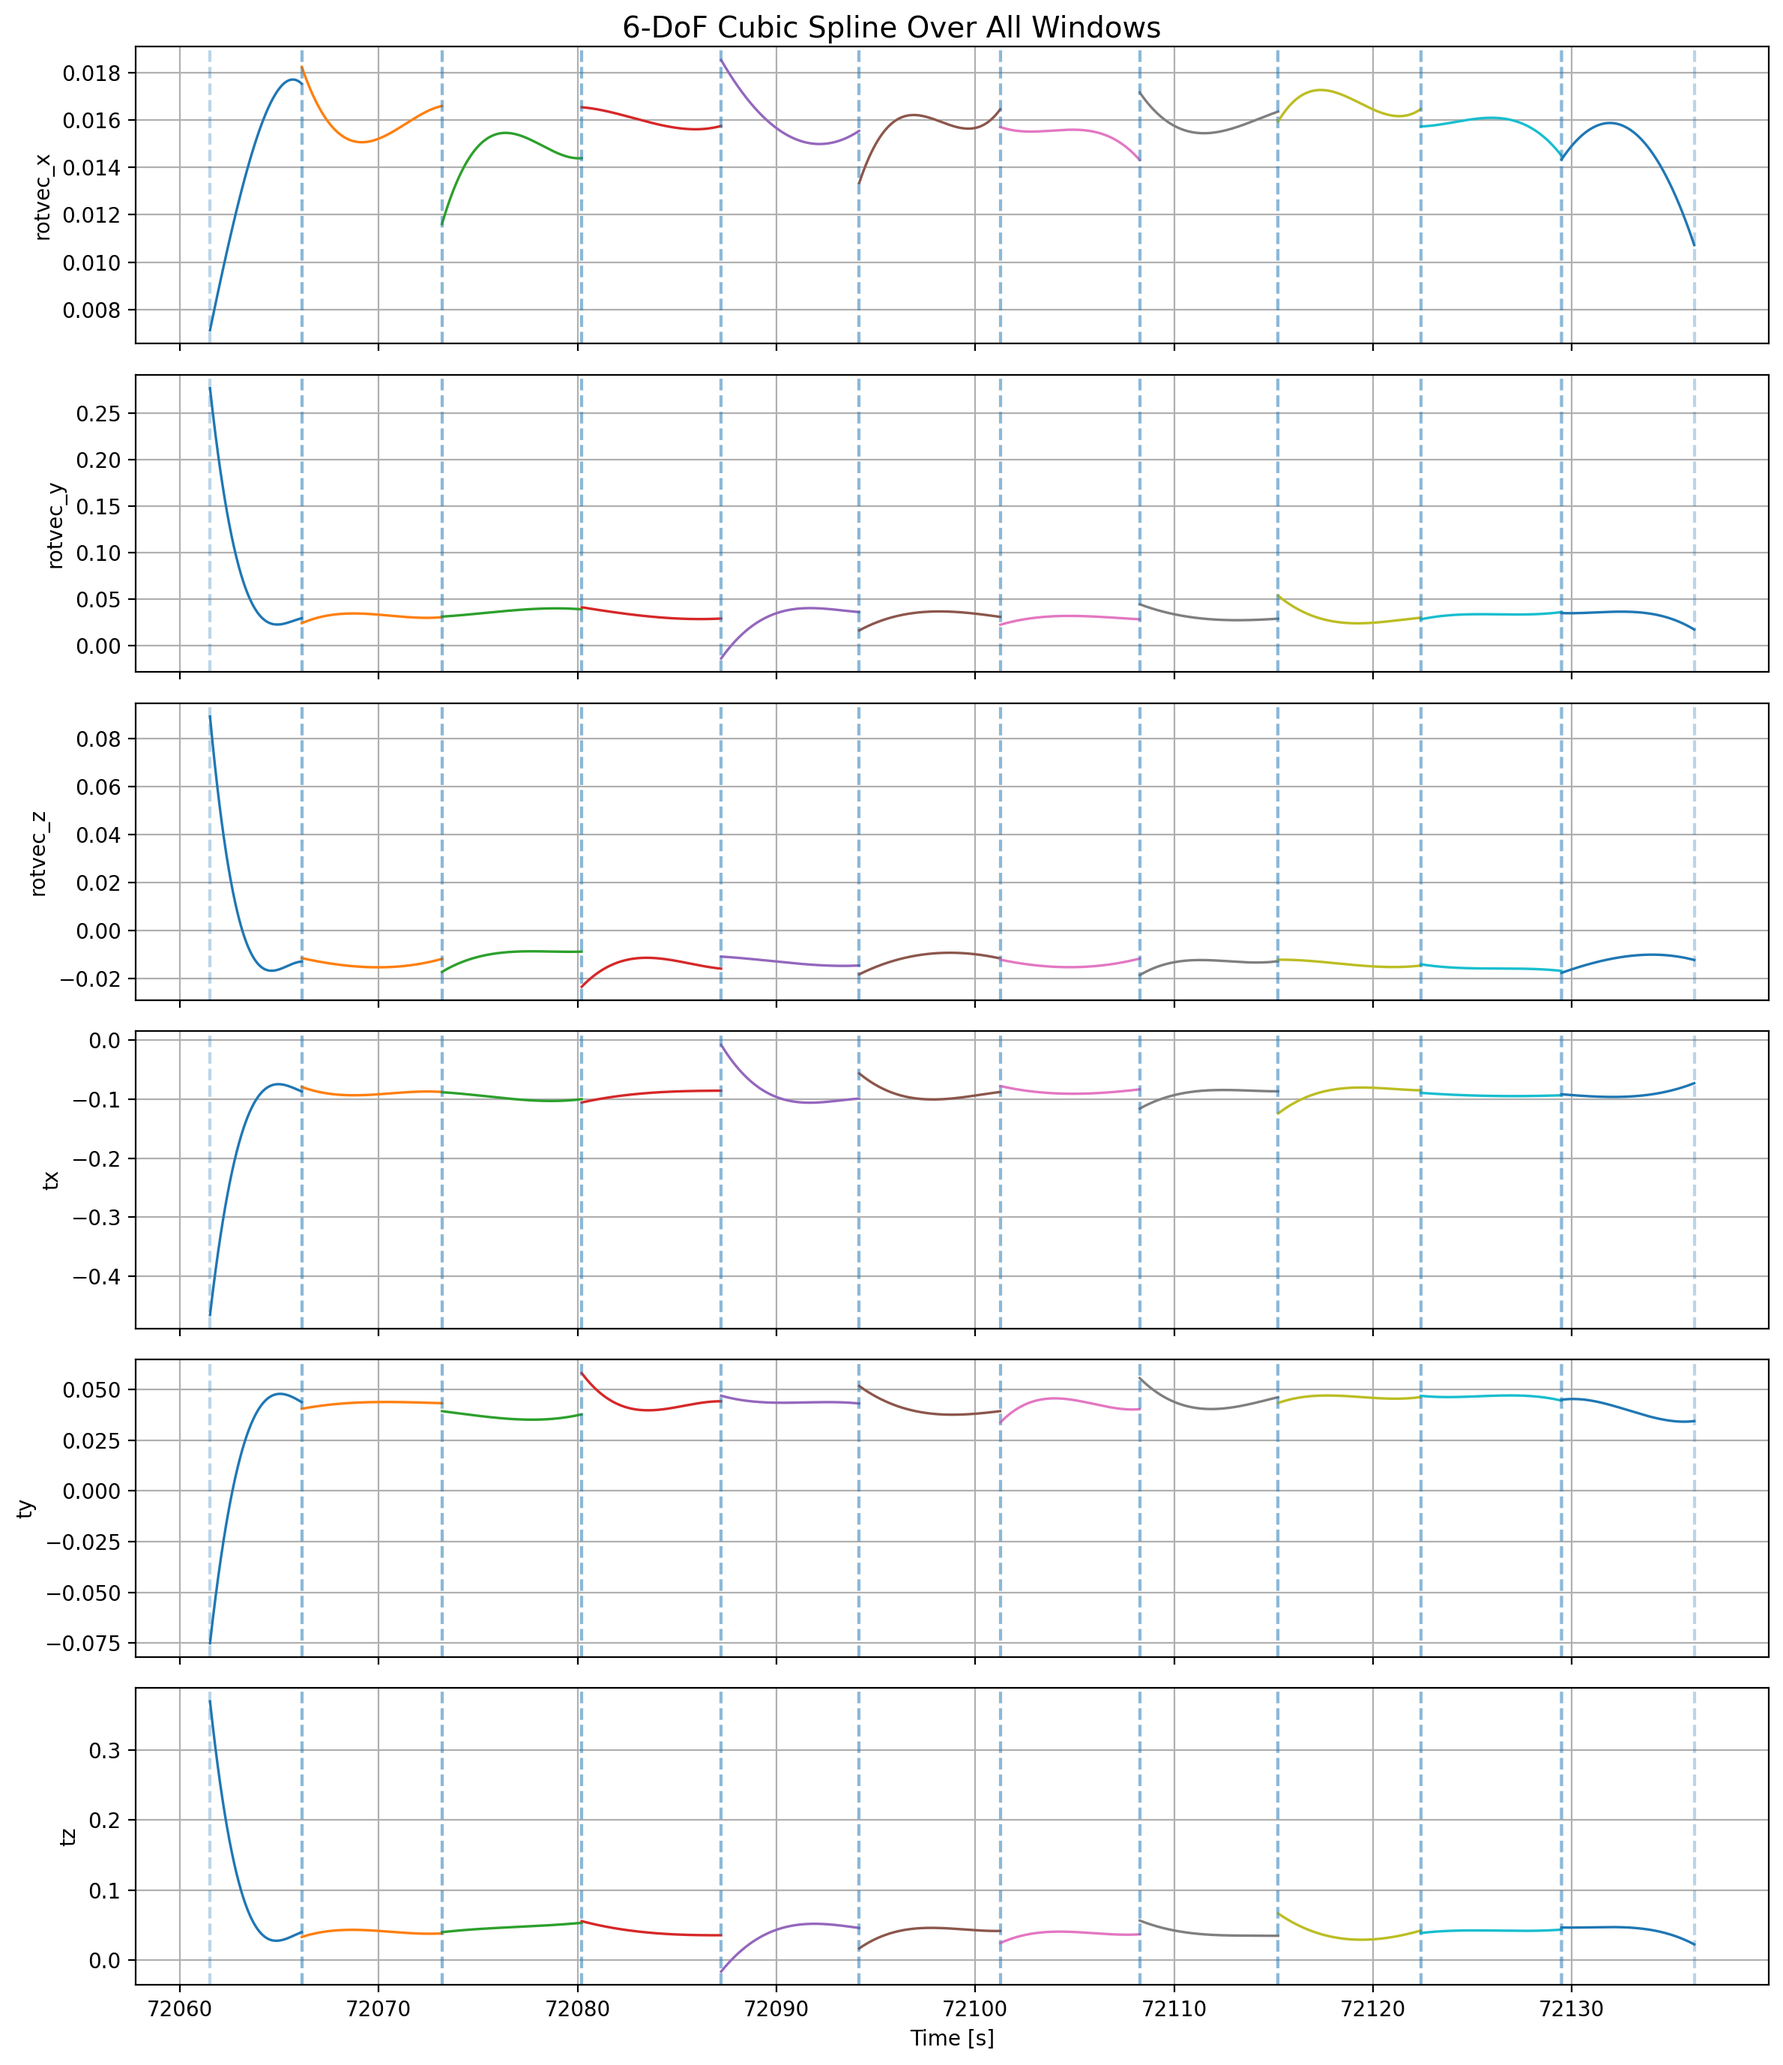
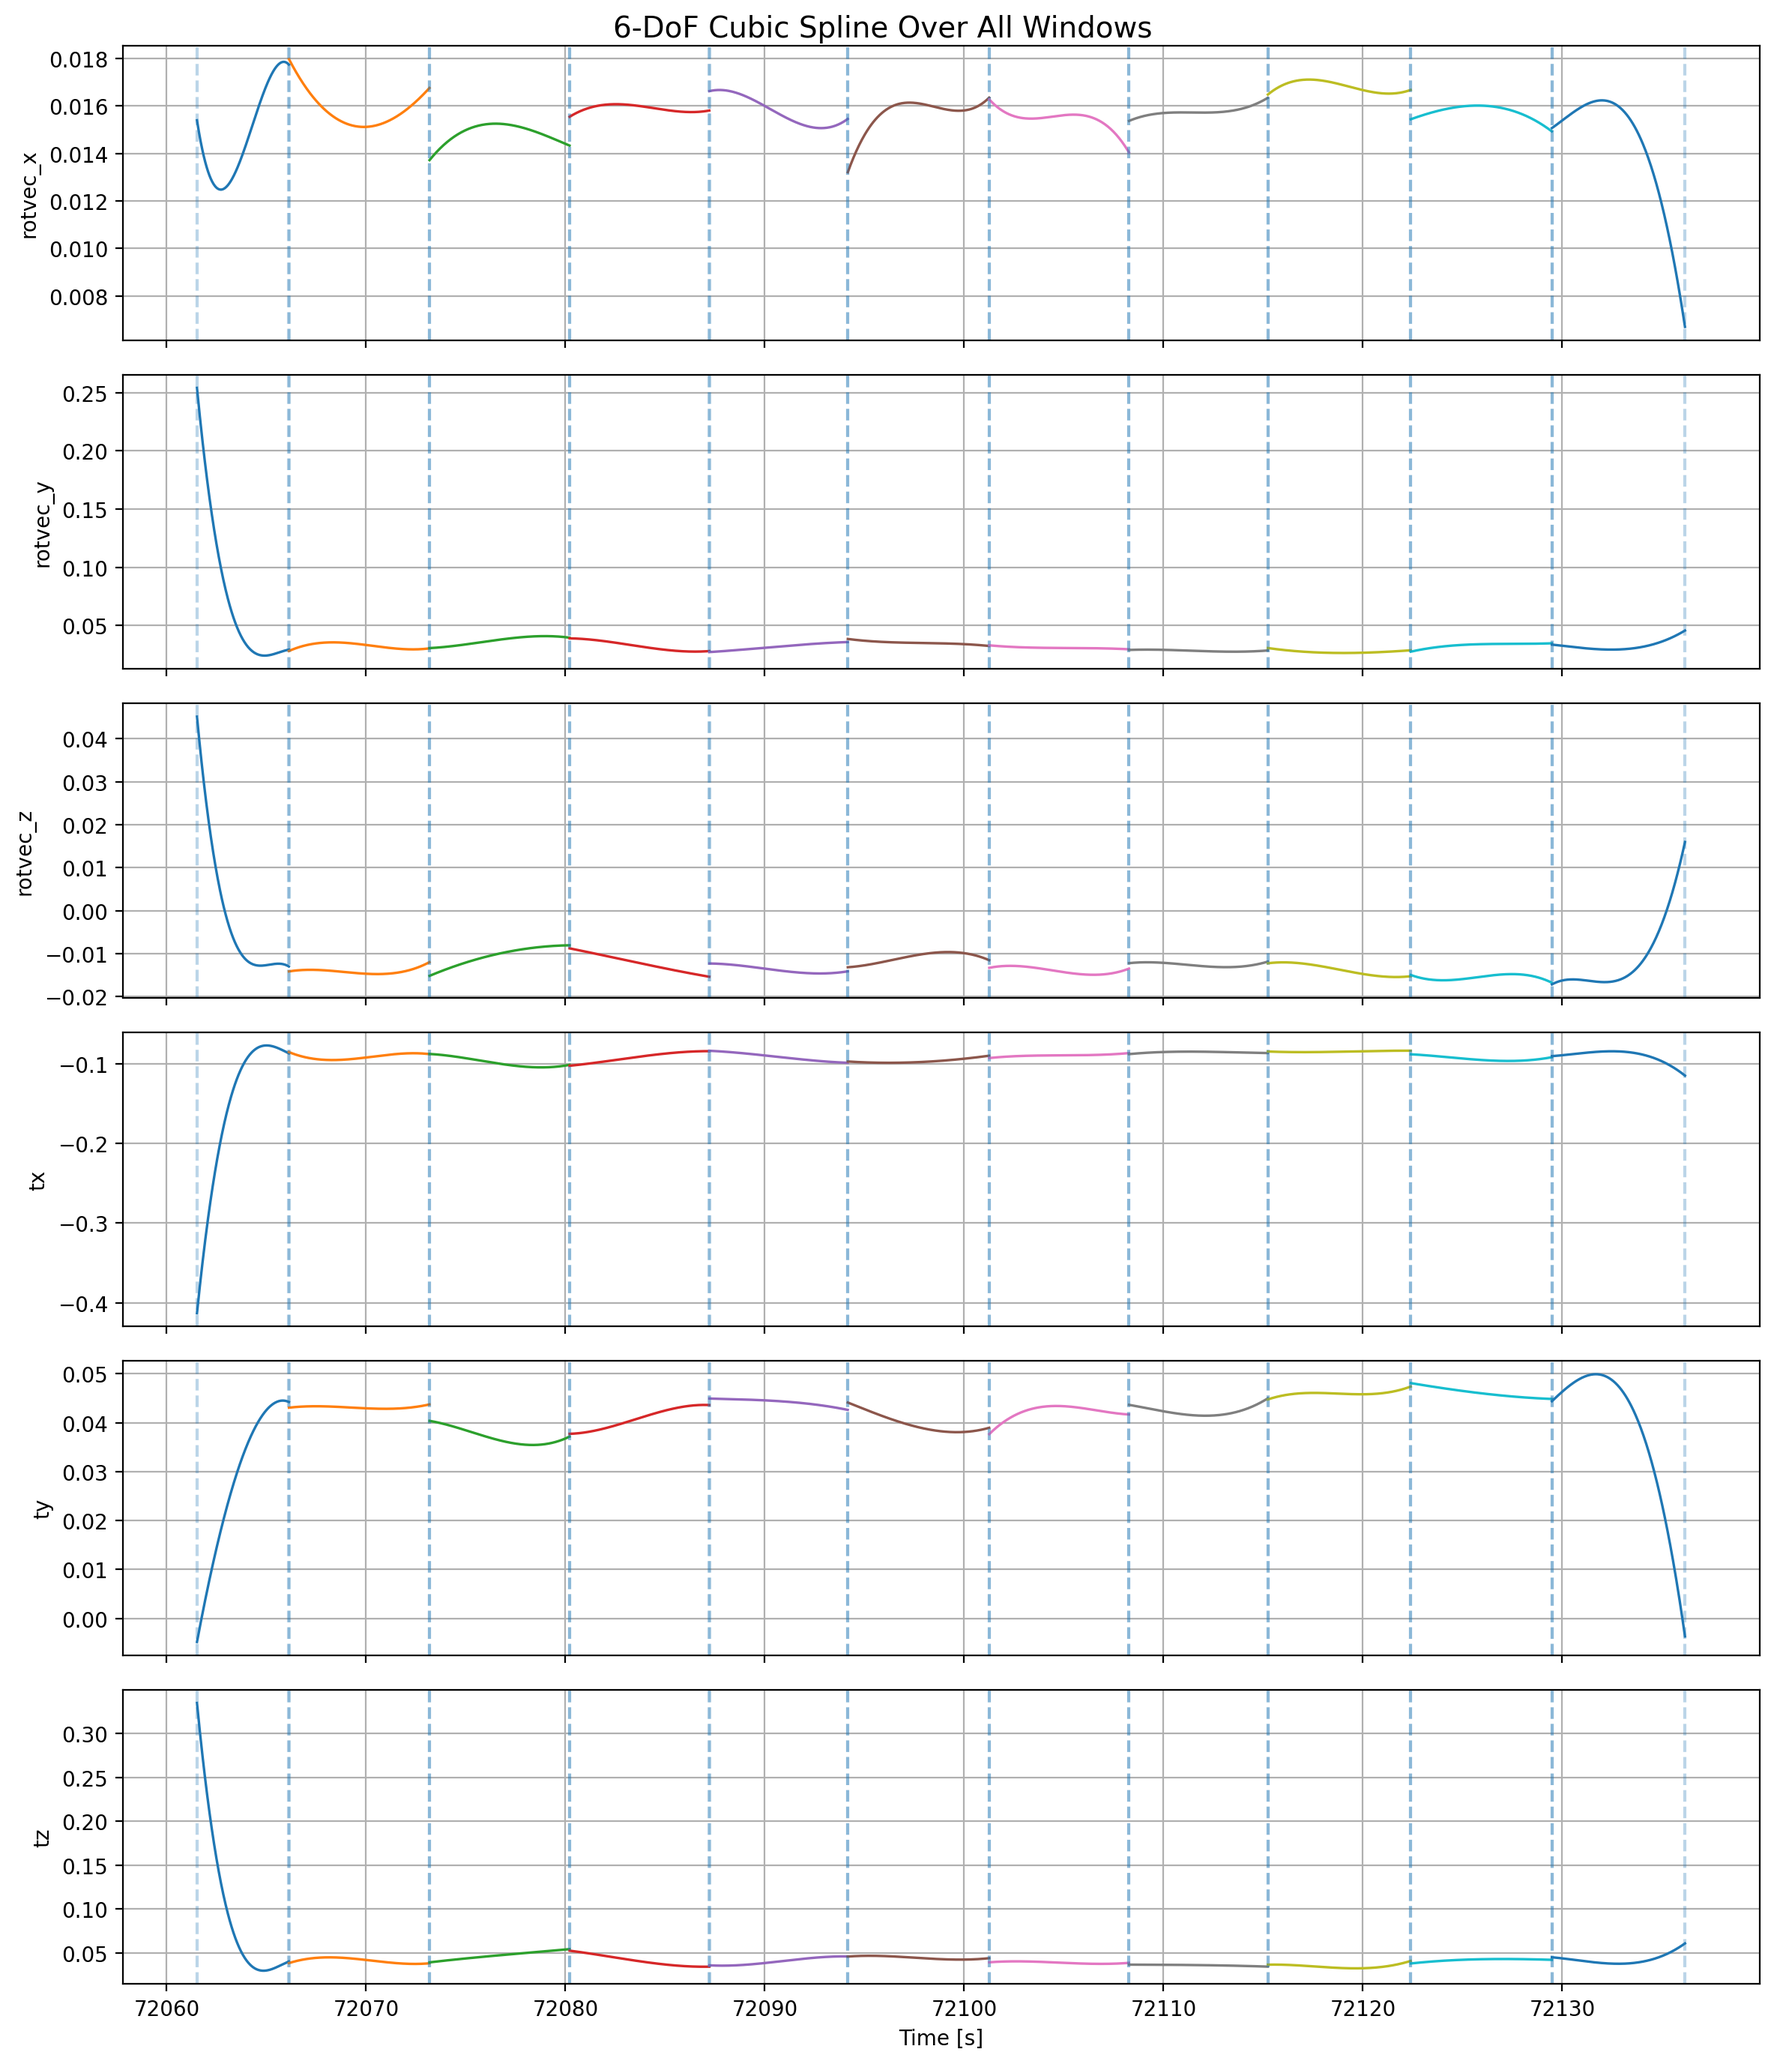
update

Changed region(s): [[0.0, 0.0, 0.9869, 0.9996], [0.9252, 0.8747, 0.9561, 0.9684]]

diff --git a/evaluation.py b/evaluation.py
@@ -56,7 +56,7 @@
 
 
 # if __name__ == "__main__":
-#     analyze_m3c2(r"F:\UNIVERSITY_BONN\master_thesis\working_space\evaluat_file\FOR_P151\M3C2_static_pointCloud.txt")
+#     analyze_m3c2(r"F:\UNIVERSITY_BONN\master_thesis\working_space\evaluat_file\FOR_P151\M3C2_batch.txt")
 
 
 
@@ -125,5 +125,5 @@ def plot_spline_csv(csv_path, num_samples=200, save_path="spline_6dof.png"):
 
 
 if __name__ == "__main__":
-    csv_path = "spline_coefficients.csv"   # 改成你的文件路径
+    csv_path = r"F:\UNIVERSITY_BONN\master_thesis\working_space\FGKinCal\output\spline_coefficients.csv"   # 改成你的文件路径
     plot_spline_csv(csv_path)

diff --git a/factor_graph/core/cubic_factor.py b/factor_graph/core/cubic_factor.py
@@ -15,8 +15,8 @@ class CubicIcpFactor:
         self.xyzm2 = None  # point matches 2
 
     def matching(self, config : sICPconfig):
-            pc1_downsampled, _ = self.voxel_downsampling(self.pc1, config.voxel_size)
-    
+            # pc1_downsampled, _ = self.voxel_downsampling(self.pc1, config.voxel_size)
+            pc1_downsampled = self.pc1
             nbrs = NearestNeighbors(n_neighbors=1, algorithm="auto").fit(self.pc2)
             dNN, idxNN = nbrs.kneighbors(pc1_downsampled)
     

diff --git a/factor_graph/src/FactorGraphOptimizationCubicSplineBatch.py b/factor_graph/src/FactorGraphOptimizationCubicSplineBatch.py
@@ -230,22 +230,6 @@ class FactorGraphOptimizerCubicSplineBatch:
 
 
 
-
-
-
-
-
-
-
-
-
-
-
-
-
-
-
-
     def match_group(self,pc_left, pc_right_corrected, right_idx, pc_right_original):
         icp = CubicIcpFactor(pc_left,pc_right_corrected)
         matching, filtered_idx = icp.matching(self.config)
